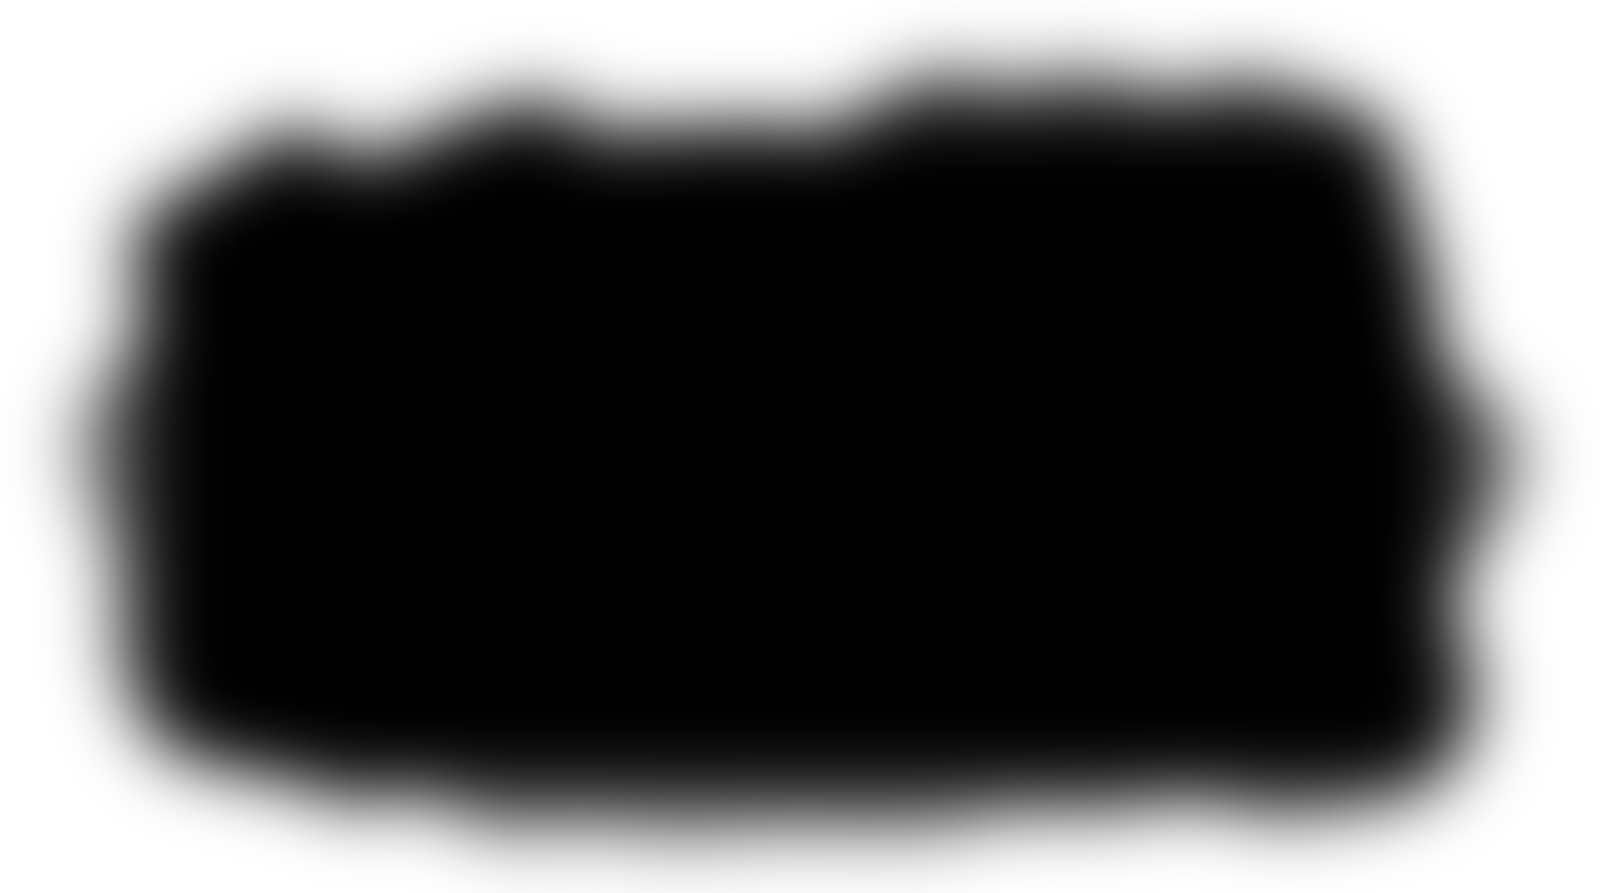
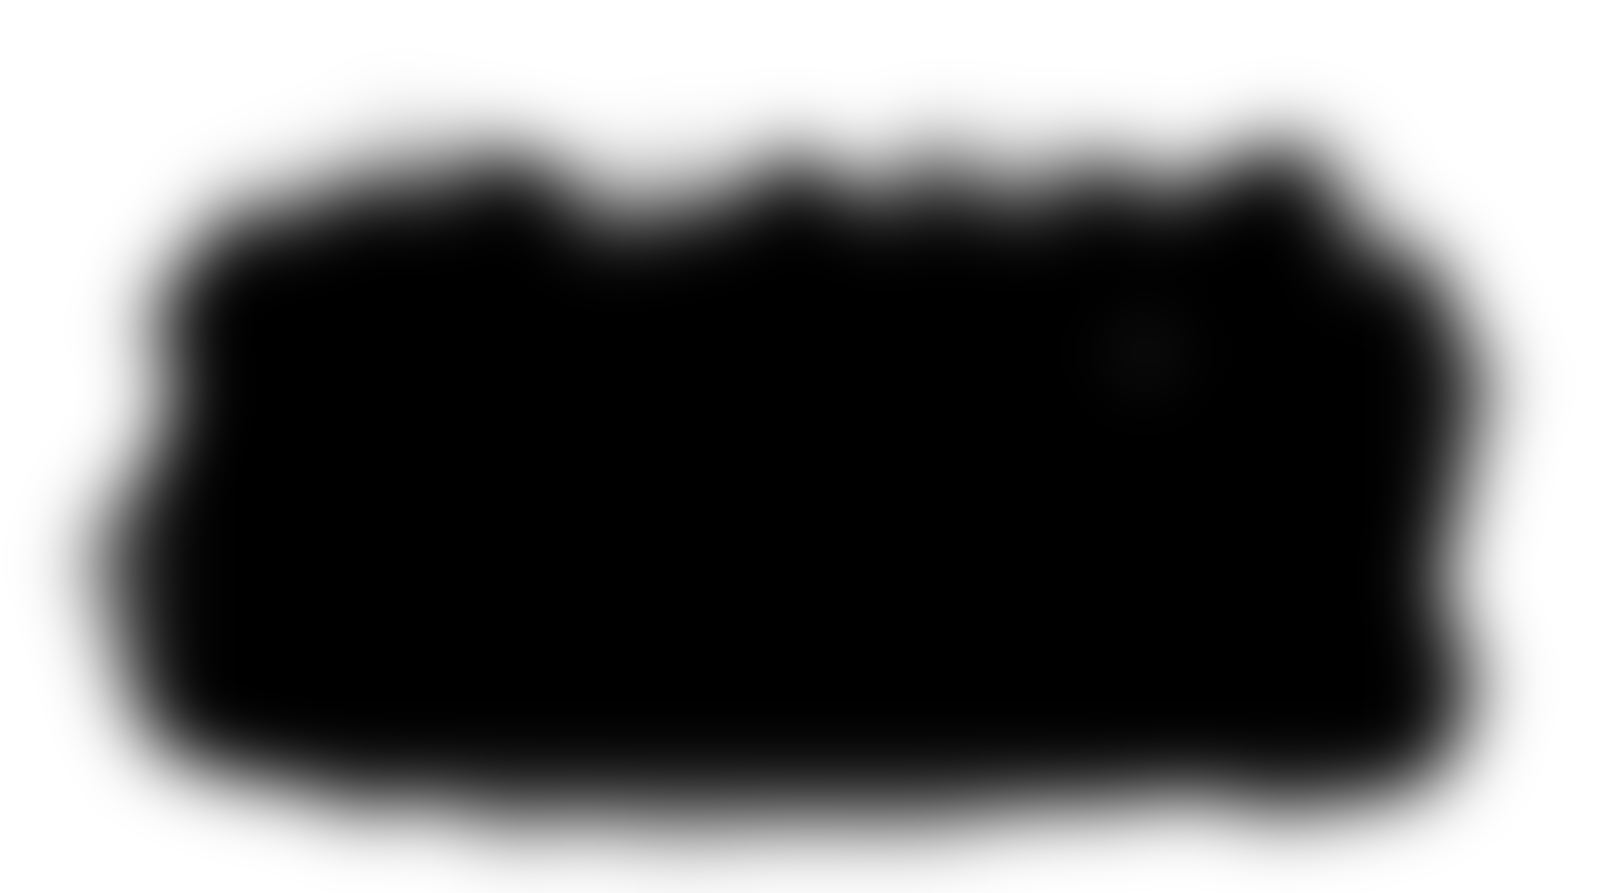
Válka, kterou nikdo nevyhraje: tři obrázky (prapory, kolotoč, kavalerie); esej umí víc obrázků rozložených textem; zlatá smí být lampou, když dává smysl
Claude-Session: https://claude.ai/code/session_01B7obWNd8t3eyi15XpW3dtB

Changed region(s): [[0.0312, 0.0302, 0.9688, 0.6954], [0.0312, 0.6047, 0.0938, 0.6954]]

diff --git a/src/components/essay/EssayPage.tsx b/src/components/essay/EssayPage.tsx
@@ -1,4 +1,4 @@
-import { useEffect, useMemo, useState, type CSSProperties, type ReactNode } from 'react';
+import { Fragment, useEffect, useMemo, useState, type CSSProperties, type ReactNode } from 'react';
 import ReactMarkdown, { type Components } from 'react-markdown';
 import remarkGfm from 'remark-gfm';
 import { uiT } from '../../lib/i18n';
@@ -38,6 +38,8 @@ type Props = {
   hero?: { src: string; alt: string; ink?: string; mask?: string };
   /** Druhý obrázek stezky (náhled): uprostřed textu, před nadpisem nejblíž polovině. */
   hero2?: { src: string; alt: string; ink?: string; mask?: string };
+  /** Další obrázky stezky (po prvním): rozložené rovnoměrně textem, každý před nadpisem ##. Má přednost před hero2. */
+  heroMore?: { src: string; alt: string; ink?: string; mask?: string }[];
   /** Skutečná stránka (ne náhled): obrázky jen pod citátem a uprostřed, s maskami. */
   heroLive?: boolean;
 };
@@ -109,7 +111,7 @@ function heroImgProps(h: { ink?: string; mask?: string }) {
   return { style: style as CSSProperties, className: h.ink ? 'has-ink' : undefined };
 }
 
-export default function EssayPage({ base, markdown, title, kicker, tagline, worlds, trail, pending, hero, hero2, heroLive }: Props) {
+export default function EssayPage({ base, markdown, title, kicker, tagline, worlds, trail, pending, hero, hero2, heroMore, heroLive }: Props) {
   const locale = useLocale();
   const [mainMd, sourcesMd] = useMemo(
     () => (trail ? splitSources(markdown) : [markdown, '']),
@@ -163,6 +165,9 @@ export default function EssayPage({ base, markdown, title, kicker, tagline, worl
   // Náhled obrázku „pod citát“: text rozdělený za úvodním citátem (první odstavec kurzívou po prvním ##).
   // Náhled obrázků: text rozdělený za úvodním citátem (první odstavec kurzívou po prvním ##)
   // a s druhým obrázkem před nadpisem ## nejblíž polovině textu.
+  const extras = useMemo(() => heroMore ?? (hero2 ? [hero2] : []), [heroMore, hero2]);
+  // Text rozdělený za úvodním citátem (první odstavec kurzívou po prvním ##) a dál před nadpisy ##
+  // nejblíž rovnoměrnému rozložení dalších obrázků (jeden = polovina, dva = třetiny…).
   const quoteSplit = useMemo<string[] | null>(() => {
     if (!hero) return null;
     const m = /^##[^\n]*\n+(\*[^\n]*(?:\n\*[^\n]*)*)\n/m.exec(mainMd);
@@ -170,14 +175,23 @@ export default function EssayPage({ base, markdown, title, kicker, tagline, worl
     const end = m.index + m[0].length;
     const head = mainMd.slice(0, end);
     const rest = mainMd.slice(end);
-    if (!hero2) return [head, rest];
-    const half = mainMd.length / 2 - end;
-    let best = -1;
-    for (const h of rest.matchAll(/^## /gm)) {
-      if (best < 0 || Math.abs((h.index ?? 0) - half) < Math.abs(best - half)) best = h.index ?? 0;
+    const heads = [...rest.matchAll(/^## /gm)].map((h) => h.index ?? 0).filter((i) => i > 0);
+    const cuts: number[] = [];
+    extras.forEach((_, k) => {
+      const target = (mainMd.length * (k + 1)) / (extras.length + 1) - end;
+      const free = heads.filter((i) => i > (cuts[cuts.length - 1] ?? 0));
+      if (!free.length) return;
+      cuts.push(free.reduce((a, b) => (Math.abs(b - target) < Math.abs(a - target) ? b : a)));
+    });
+    const parts = [head];
+    let from = 0;
+    for (const c of cuts) {
+      parts.push(rest.slice(from, c));
+      from = c;
     }
-    return best > 0 ? [head, rest.slice(0, best), rest.slice(best)] : [head, rest];
-  }, [hero, hero2, mainMd]);
+    parts.push(rest.slice(from));
+    return parts;
+  }, [hero, extras, mainMd]);
 
   const mdComponents: Components = {
               h2: ({ children }) => {
@@ -283,16 +297,23 @@ export default function EssayPage({ base, markdown, title, kicker, tagline, worl
               <ReactMarkdown remarkPlugins={[remarkGfm]} components={mdComponents}>
                 {quoteSplit[1]}
               </ReactMarkdown>
-              {hero2 && quoteSplit[2] ? (
-                <>
+              {quoteSplit.slice(2).map((part, k) => (
+                <Fragment key={k}>
                   <figure className={`essay-hero essay-hero--quote essay-hero--mid${heroLive ? ' essay-hero--live' : ''}`}>
-                    <img data-preview-img2 src={hero2.src} alt={hero2.alt} decoding="async" loading="lazy" {...heroImgProps(hero2)} />
+                    <img
+                      data-preview-img2
+                      src={extras[k].src}
+                      alt={extras[k].alt}
+                      decoding="async"
+                      loading="lazy"
+                      {...heroImgProps(extras[k])}
+                    />
                   </figure>
                   <ReactMarkdown remarkPlugins={[remarkGfm]} components={mdComponents}>
-                    {quoteSplit[2]}
+                    {part}
                   </ReactMarkdown>
-                </>
-              ) : null}
+                </Fragment>
+              ))}
             </>
           ) : (
             <ReactMarkdown remarkPlugins={[remarkGfm]} components={mdComponents}>

diff --git a/src/lib/trail-images.ts b/src/lib/trail-images.ts
@@ -1,6 +1,6 @@
 /**
  * Obrázky k putováním (styl: docs/obrazky-putovani.md). Soubory v public/putovani-obrazky/:
- * <slug>-1.jpg pod úvodním citátem eseje a jako náhled v rejstříku, <slug>-2.jpg uprostřed eseje.
+ * <slug>-1.jpg pod úvodním citátem eseje a jako náhled v rejstříku, <slug>-2.jpg (a -3.jpg…) rozložené textem eseje.
  * Masky: maska/<soubor>.png podle tuše pro tmavý motiv (scripts/ink-masks.py), maska/freska.png obecná.
  */
 import { existsSync } from 'node:fs';
@@ -9,12 +9,12 @@ import { TRAIL_SLUGS, type TrailId } from './trails';
 
 export type TrailImage = { src: string; ink?: string; mask: string };
 
-/** Putování, která už obrázky mají: počet obrázků (1 nebo 2). */
-const READY: Record<TrailId, 1 | 2> = {
+/** Putování, která už obrázky mají: počet obrázků (první pod citátem, další rovnoměrně textem). */
+const READY: Record<TrailId, number> = {
   'gods-burden': 2,
   house: 2,
   'indifferent-stars': 2,
-  'endless-war': 2,
+  'endless-war': 3,
 };
 
 const DIR = 'putovani-obrazky';

diff --git a/docs/obrazky-putovani.md b/docs/obrazky-putovani.md
@@ -7,18 +7,18 @@ Stav 2026-11-23: styl nalezený po pěti kolech zkoušek (náhled `/putovani/nav
 - **Technika:** tmavá monotypie tuší na teplém krémovém papíře (tradice Degasových monotypií). Měkká indigová mlha otisknutá a setřená, přes ni jisté ruční tahy perem, tuší a tužkou s různou silou a trochou šrafury. Mlha převažuje, kresba drží tvar.
 - **Okraj:** obraz se nepravidelně rozpíjí do holého papíru; žádný rámeček ani rovný řez. Na webu se pak vpije do pozadí (ve světlém motivu `multiply`, freska-maska není potřeba).
 - **Paleta:** jen indigo a noční modř (#1B2547, #0D1324) na krémovém papíře. Žádná černá, hnědá, sépie.
-- **Světlo:** nejvýš jedno zlaté světlo (#E5BE7E) a **vždy jako součást hlavního motivu** (klíčová dírka, okno, oheň, který k věci patří). Nikdy samostatná lampa, svíčka ani lucerna přidaná navíc (majitel 2026-11-23: opakující se lucerničky bez smyslu). Když se zlatá do motivu nehodí, obrázek je bez ní.
+- **Světlo:** nejvýš jedno zlaté světlo (#E5BE7E) a **které ve scéně má smysl** (klíčová dírka, okno, oheň u gramofonu, svíčka v odhozené přilbě, lucerna u prázdných bot). Lampa, svíčka či lucerna smí být, ale ne jako tečka přidaná navíc bez vztahu k motivu (majitel 2026-11-23). Když se zlatá do motivu nehodí, obrázek je bez ní.
 - **Motiv:** detail nebo polocelek, ne velká scéna. Obraz s druhým čtením: na první pohled obyčejný, na druhý nese otázku eseje. Prázdný prostor kolem.
 - **Nikdy:** text, písmena, podpisy, rámečky; postavy, loga a místa z her; náboženské symboly; lidé (nanejvýš drobná postava zezadu, když to motiv potřebuje); cákance tuše; airbrush; uhlazená digitální linka.
 - **Formát:** 16 : 9 na šířku, hlavní motiv v prostřední třetině (výřez 4 : 5 v rejstříku), čitelné i jako malý náhled.
 
 ## Na webu
 
-- Soubory `public/putovani-obrazky/<slug>-1.jpg` (pod úvodním citátem eseje a náhled v rejstříku `/putovani/`) a `<slug>-2.jpg` (uprostřed eseje, před nadpisem ## nejblíž polovině). Šířka max 1600 px, JPEG 82.
+- Soubory `public/putovani-obrazky/<slug>-1.jpg` (pod úvodním citátem eseje a náhled v rejstříku `/putovani/`) a `<slug>-2.jpg` (uprostřed eseje, před nadpisem ## nejblíž polovině; při třech obrázcích -2 a -3 na třetinách, `READY` v `trail-images.ts` udává počet). Šířka max 1600 px, JPEG 82.
 - Masky: `maska/<slug>-N.png` podle tuše pro tmavý motiv (`python3 scripts/ink-masks.py`, pak zkopírovat z `navrh-obrazku/maska/`, nebo upravit cestu ve skriptu), `maska/freska.png` obecná.
 - Které putování obrázky má: `READY` v `src/lib/trail-images.ts`. Obrázky se ukážou jen u schválené eseje.
 - Rejstřík `/putovani/` má rozvržení karet ve dvou sloupcích s obrázkem nahoře (C, vybráno ze tří variant: A obraz za textem, B střídavé desky). Dokud nemají obrázky všechna putování, stojí vedle karty s obrázkem textové karty.
-- Na webu (2026-11-23): Bohové jako břemeno (katedrála ze žeber, kamenné víčko); Dům, ze kterého nejde odejít (měsíc jako zlatá klíčová dírka nad městečkem, okno uprostřed pláně s pokojem uvnitř). Válka, kterou nikdo nevyhraje (prapory z hejn ptáků nad bojištěm, prázdné brnění, ze kterého se valí moře); Pod lhostejnými hvězdami (žebřík opřený o nebe s prázdnými botami a lucernou, gramofon, ze kterého se sypou hvězdy, u táboráku). Postup: 5 motivů, vybrat 2. **Motivy: surrealismus a neobvyklé kompozice, klidně velké měřítko a zachycený pohyb (Magritte, Dalí), neobvyklé spojení předmětů (v duchu Magritta), jen lehce doslovné** — první kolo s doslovnými motivy (tapeta, dveře, kolébka) majitel zamítl jako nenápadité. Do promptu řádek `Mood: subtle surrealism in the spirit of Magritte: one unexpected combination, quiet and uncanny, never literal or explanatory.` Masky: `python3 scripts/ink-masks.py public/putovani-obrazky/<slug>-1.jpg …`.
+- Na webu (2026-11-23): Bohové jako břemeno (katedrála ze žeber, kamenné víčko); Dům, ze kterého nejde odejít (měsíc jako zlatá klíčová dírka nad městečkem, okno uprostřed pláně s pokojem uvnitř). Válka, kterou nikdo nevyhraje (tři obrázky: prapory z hejn ptáků, kolotoč z děl, kavalerie z rozbitých hodin se svíčkou v temnu); Pod lhostejnými hvězdami (žebřík opřený o nebe s prázdnými botami a lucernou, gramofon, ze kterého se sypou hvězdy, u táboráku). Postup: 5 motivů, vybrat 2. **Motivy: surrealismus a neobvyklé kompozice, klidně velké měřítko a zachycený pohyb (Magritte, Dalí), neobvyklé spojení předmětů (v duchu Magritta), jen lehce doslovné** — první kolo s doslovnými motivy (tapeta, dveře, kolébka) majitel zamítl jako nenápadité. Do promptu řádek `Mood: subtle surrealism in the spirit of Magritte: one unexpected combination, quiet and uncanny, never literal or explanatory.` Masky: `python3 scripts/ink-masks.py public/putovani-obrazky/<slug>-1.jpg …`.
 
 ## Jak generovat
 
@@ -27,10 +27,10 @@ Gemini, nový chat. Přiložit **jediný vzorový obrázek** `public/navrh-obraz
 ```
 Use the attached image as the style reference: keep exactly the same technique, paper, ink, mist, line work, palette and mood, and the same single small gold light. Do not copy its subject or objects.
 Style: a dark-field ink monotype printed on warm off-white paper, in the tradition of Degas' monotypes: soft foggy indigo ink pressed and wiped into mist, the image dissolving irregularly into the bare paper at the edges. Over the soft print, confident hand-drawn ink and pencil lines with varied thickness and some cross-hatching define the main forms; the mist stays dominant and the image stays quiet. No ruled frame, no border.
-Colour: indigo and midnight blue ink (#1B2547, #0D1324) on cream paper only, no black, no brown, no sepia. At most one warm gold accent (#E5BE7E), and only as part of the main subject itself; never add a separate lamp, lantern or candle.
+Colour: indigo and midnight blue ink (#1B2547, #0D1324) on cream paper only, no black, no brown, no sepia. At most one warm gold accent (#E5BE7E), and only where it belongs to the scene and carries meaning; no random decorative lamps or candles.
 Scene: [MOTIV]
 Composition: 16:9 wide, detail or medium shot, main subject in the central third, quiet empty space around, legible even as a small thumbnail.
-Avoid: text, letters, signatures, frames, video game characters, logos, religious symbols, photorealism, ink splatter, airbrush, extra lamps, lanterns or candles.
+Avoid: text, letters, signatures, frames, video game characters, logos, religious symbols, photorealism, ink splatter, airbrush, random decorative lamps or candles.
 ```
 
 ## Slepé uličky (nezkoušet znovu)
